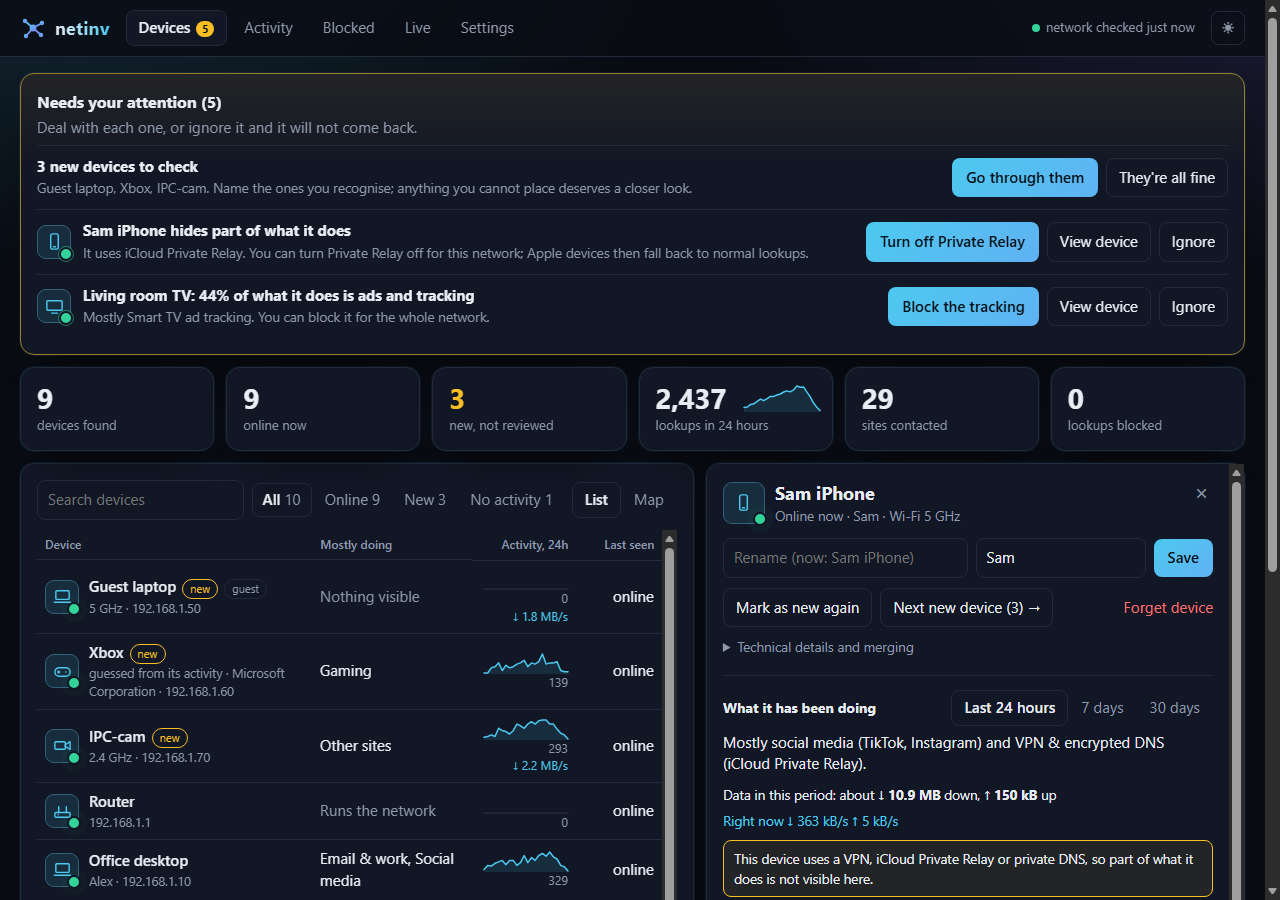
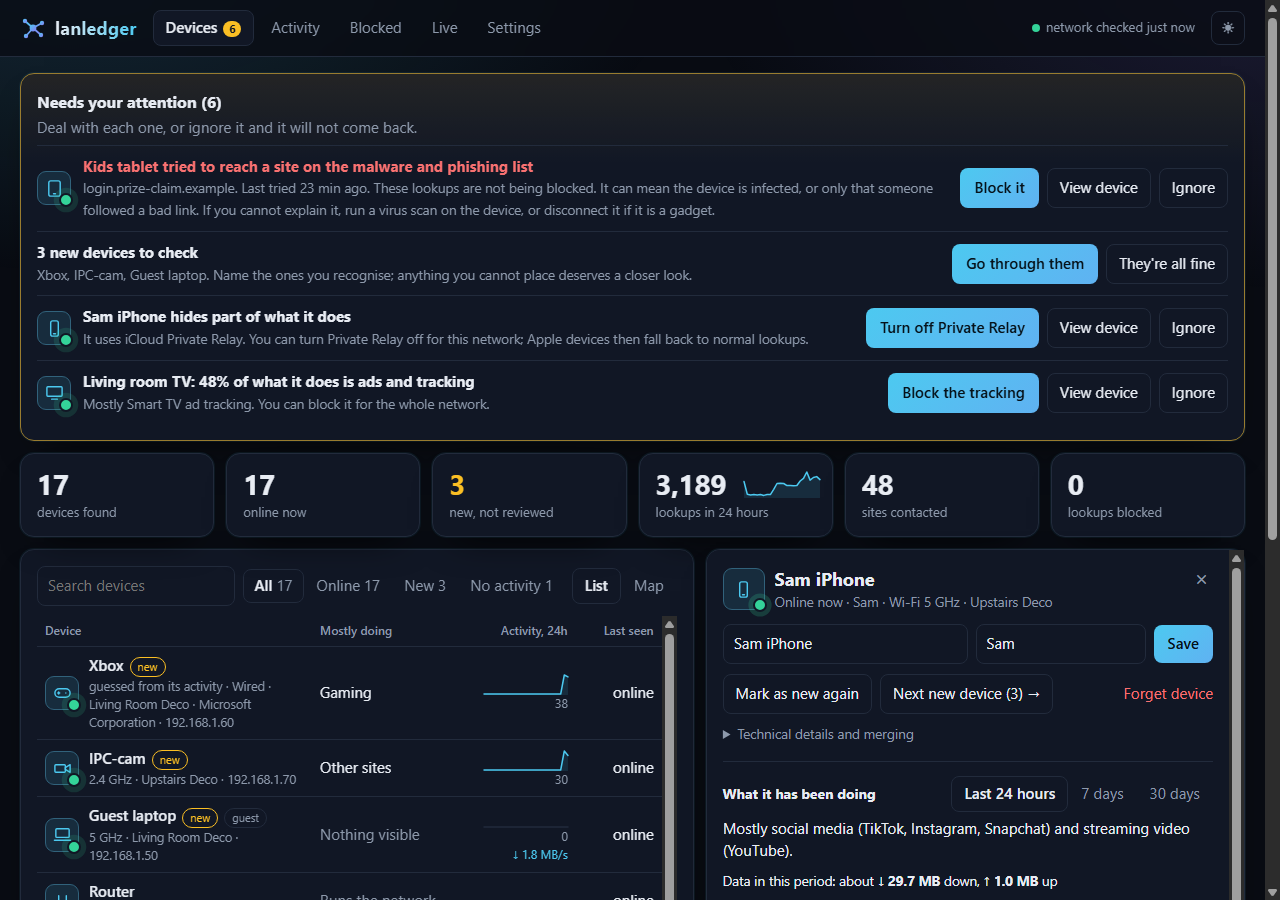
New screenshots; tell mesh units from one box apart on the map
- Screenshots retaken under the new name, from a made-up household, with
  a security warning and the map grouped by mesh unit.
- Mesh units bought together have hardware addresses alike but for the
  last two digits, and were all taken for the first unit, so the map did
  not cluster. The nearest address now decides.
- Security warnings are listed before the "N new devices" row.
- One or two satellite units sit below and to the sides of the main unit
  instead of in a line with it.

diff --git a/dashboard.html b/dashboard.html
@@ -557,14 +557,23 @@ function renderMap(list){
   }
   if (sats.length) {  // satellites sit round the main unit, each given as much of the circle as its cluster needs
     const big = Math.max(...sats.map(g => g.ext)), span = D => sats.map(g => 2 * Math.asin(Math.min(1, g.ext / D)));
+    // Where each satellite sits, as an angle, for a given distance out. One or two go below and to the sides,
+    // which fills a roughly square space; opposite each other they would make a long thin strip with tiny labels.
+    const angles = D => {
+      if (sats.length === 1) return [Math.PI / 4];
+      if (sats.length === 2) return [3 * Math.PI / 4, Math.PI / 4];
+      const spans = span(D), slack = (2 * Math.PI - spans.reduce((a, b) => a + b, 0)) / sats.length;
+      let a = -Math.PI / 2 - spans[0] / 2;
+      return spans.map(sp => { const mid = a + sp / 2; a += sp + slack; return mid; });
+    };
+    const place = D => angles(D).map((mid, i) => ({mid, x: Math.cos(mid) * D, y: Math.sin(mid) * D, ext: sats[i].ext}));
+    const clash = at => at.some((p, i) => at.some((q, k) => k > i && Math.hypot(p.x - q.x, p.y - q.y) < p.ext + q.ext));
     let D = centre.ext + big + 8;
-    while (span(D).reduce((a, b) => a + b, 0) > 2 * Math.PI) D += 10;
-    const spans = span(D), slack = (2 * Math.PI - spans.reduce((a, b) => a + b, 0)) / sats.length;
-    let a = -Math.PI / 2 - spans[0] / 2;
-    sats.forEach((g, i) => {
-      const mid = a + spans[i] / 2; a += spans[i] + slack;
-      g.x = Math.cos(mid) * D; g.y = Math.sin(mid) * D;
-      g.start = mid + Math.PI + Math.PI / Math.max(1, g.rings.length ? g.rings[0].items.length : 1);  // leave the gap facing the main unit
+    while (D < 5000 && (span(D).reduce((a, b) => a + b, 0) > 2 * Math.PI || clash(place(D)))) D += 10;
+    place(D).forEach((at, i) => {
+      const g = sats[i];
+      g.x = at.x; g.y = at.y;
+      g.start = at.mid + Math.PI + Math.PI / Math.max(1, g.rings.length ? g.rings[0].items.length : 1);  // leave the gap facing the main unit
     });
     // turn the main unit's own devices so that as few as possible sit on a line out to a satellite
     const trunks = sats.map(g => Math.atan2(g.y, g.x)), turn = (a, t) => Math.abs(Math.atan2(Math.sin(a - t), Math.cos(a - t)));
@@ -869,6 +878,7 @@ async function dismiss(key){
   if (!r.ok) { toast(r.error); return; }
   attnSeen = ""; await refresh();
 }
+const urgentKind = it => it.kind === "impostor" || it.kind === "threat";
 function attnRow(it){
   const d = byMac.get(it.mac);
   if (!d && it.kind !== "impostor") return null;   // an impostor may be a device the sweep has never listed
@@ -916,7 +926,7 @@ function attnRow(it){
     btns = [canBlock ? el("button", {class:"act", onclick:async () => { if (await setBlock(it.services.map(service => ({service})), true,
       `Block ${it.services.join(", ")} for every device on your network?\n\nThose ads and trackers stop loading everywhere. Now and then a site or app that depends on them misbehaves. ${UNDO}`)) dismiss(it.key); }}, "Block the tracking") : null, view, ignore];
   }
-  const urgent = it.kind === "impostor" || it.kind === "threat";
+  const urgent = urgentKind(it);
   return el("div", {class:"attn-row" + (urgent ? " urgent" : "")}, d ? icon(d) : null, el("div", {class:"txt"}, el("b", {}, title), el("span", {}, text)), el("div", {class:"btns"}, btns));
 }
 function renderAttention(){
@@ -939,7 +949,7 @@ function renderAttention(){
   const shown = attnAll ? rest : rest.slice(0, 4);
   fill(box, el("h2", {}, `Needs your attention (${attention.length})`),
     el("p", {class:"mute", style:"margin-bottom:6px"}, "Deal with each one, or ignore it and it will not come back."),
-    crowd, shown.map(attnRow),
+    shown.filter(urgentKind).map(attnRow), crowd, shown.filter(i => !urgentKind(i)).map(attnRow),   // security first, even before new devices
     rest.length > shown.length ? el("div", {class:"attn-row"}, el("button", {class:"link", onclick:() => { attnAll = true; renderAttention(); }}, `Show ${rest.length - shown.length} more`)) : null);
 }
 async function reviewAll(list){

diff --git a/tests/test_lanledger.py b/tests/test_lanledger.py
@@ -206,6 +206,30 @@ class Summary(Case):
         self.assertEqual(self.devices()[A]["label"], "Fridge")
 
 
+class MeshUnits(Case):
+    def test_units_from_one_box_are_told_apart(self):
+        # three units bought together: hardware addresses alike but for the last two digits, as on a real mesh
+        nodes = [{"name": "Living Room", "mac": "48:22:54:d5:5e:10", "ip": "192.168.68.1", "main": True},
+                 {"name": "Office", "mac": "48:22:54:d5:5e:14", "ip": "192.168.71.249", "main": False},
+                 {"name": "Laundry", "mac": "48:22:54:d5:5e:18", "ip": "192.168.71.248", "main": False}]
+        unit = lambda mac, ip="": (lanledger.unit_of({"mac": mac, "ip": ip}, nodes) or {}).get("name")
+        self.assertEqual([unit(n["mac"]) for n in nodes], ["Living Room", "Office", "Laundry"])
+        self.assertEqual(unit("48:22:54:d5:5e:15"), "Office")                 # a unit's second address, a digit away
+        self.assertEqual(unit("48:22:54:d5:5e:19"), "Laundry")
+        self.assertEqual(unit("aa:bb:cc:00:00:01", "192.168.71.248"), "Laundry")   # by address, whatever the hardware says
+        self.assertIsNone(unit("aa:bb:cc:00:00:01", "192.168.68.50"))
+
+    def test_the_map_gets_each_unit_under_its_own_name(self):
+        self.app.a.gateway = "10.0.0.1"
+        self.app.deco_state["nodes"] = [{"name": "Living Room", "mac": "48:22:54:d5:5e:10", "ip": "10.0.0.1", "main": True},
+                                        {"name": "Office", "mac": "48:22:54:d5:5e:14", "ip": "10.0.0.2", "main": False}]
+        for n in self.app.deco_state["nodes"]:
+            self.app.seen(n["mac"], n["ip"], "", self.now)
+        d = self.devices()
+        self.assertEqual([(d[m]["infra"], d[m]["unit"], d[m]["unit_main"]) for m in ("48:22:54:d5:5e:10", "48:22:54:d5:5e:14")],
+                         [("router", "Living Room", 1), ("mesh", "Office", 0)])
+
+
 class Threats(Case):
     """Lookups of names on the malware and phishing list are reported with the device that made them."""
 

diff --git a/lanledger.py b/lanledger.py
@@ -208,6 +208,21 @@ def name_hint(r):
     return next((hint for rx, hint in NAME_HINTS if rx.search(text)), "") if text.strip() else ""
 
 
+def unit_of(r, nodes):
+    """Which mesh unit a row of the inventory is. By address if it has the unit's own; otherwise by hardware
+    address. Units bought together differ only in the last two digits, and each unit answers under a few
+    addresses a digit or so from its own, so among units that share the rest, the nearest one is it."""
+    for n in nodes:
+        if n.get("ip") and n["ip"] == r["ip"]:
+            return n
+    try:
+        last = int(r["mac"][15:], 16)
+        near = [n for n in nodes if len(n.get("mac") or "") == 17 and n["mac"][:14] == r["mac"][:14]]
+        return min(near, key=lambda n: abs(int(n["mac"][15:], 16) - last), default=None)
+    except ValueError:
+        return None
+
+
 def parse_oui(text):
     """The IEEE register (CSV: registry, 6 hex digits, organisation, address) as {"AABBCC": "Maker"}."""
     out = {}
@@ -1148,8 +1163,7 @@ class App:
             r["infra"] = ("router" if self.a.gateway and r["ip"] == self.a.gateway else "pi" if r["vendor"] == PI_VENDOR
                           else "mesh" if is_mesh(r) else "")
             # which mesh unit this row is, so the map can draw each unit with its own devices around it
-            unit = r["infra"] and next((n for n in nodes if n.get("ip") and n["ip"] == r["ip"]
-                                        or len(n.get("mac") or "") == 17 and n["mac"][:14] == mac[:14]), None)
+            unit = r["infra"] and unit_of(r, nodes)
             r["unit"], r["unit_main"] = (unit["name"][:60], int(bool(unit.get("main")))) if unit else ("", 0)
             # The Deco says it is online, yet it has not answered the Pi's sweep for a good while: the two are being
             # kept apart, which is what the Deco's Device Isolation does. Its lookups cannot reach lanledger either.
